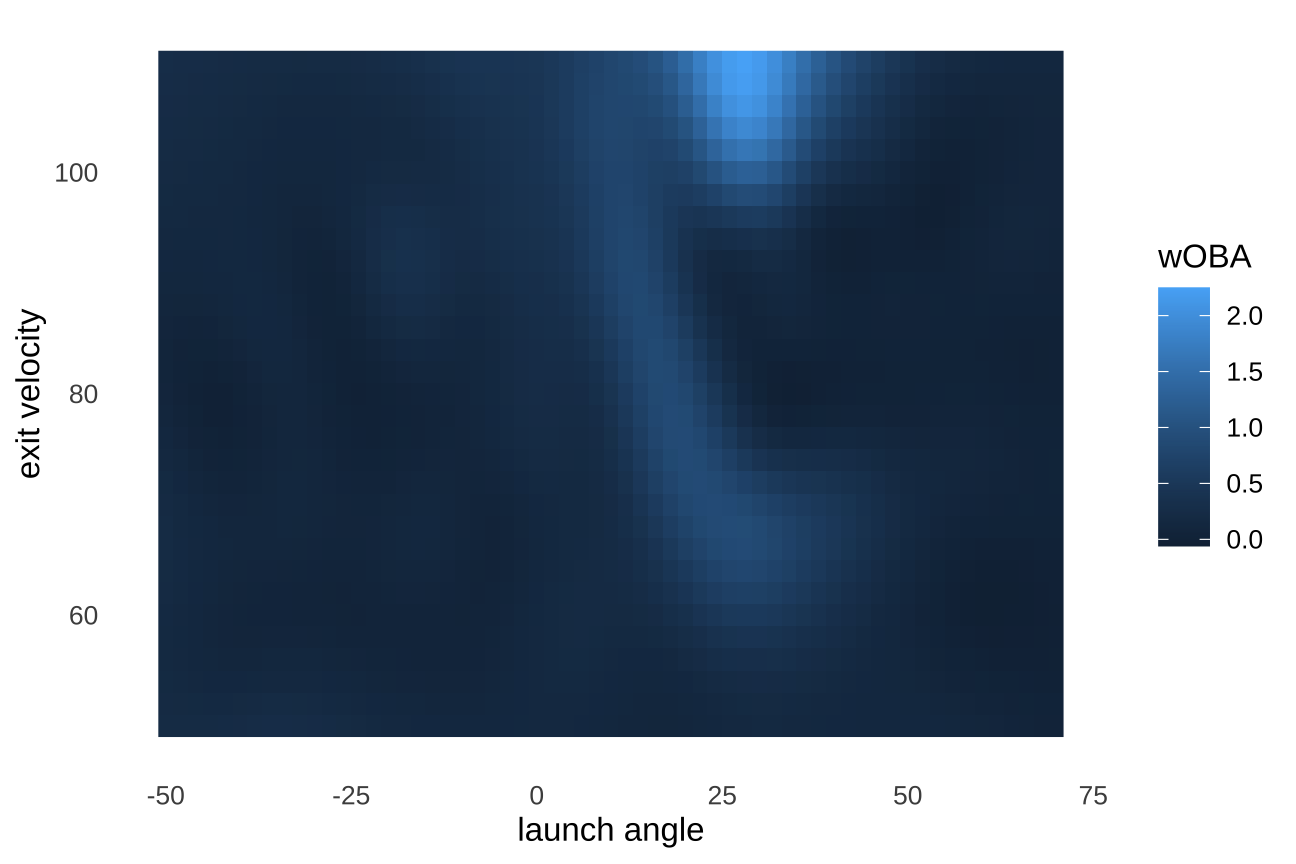
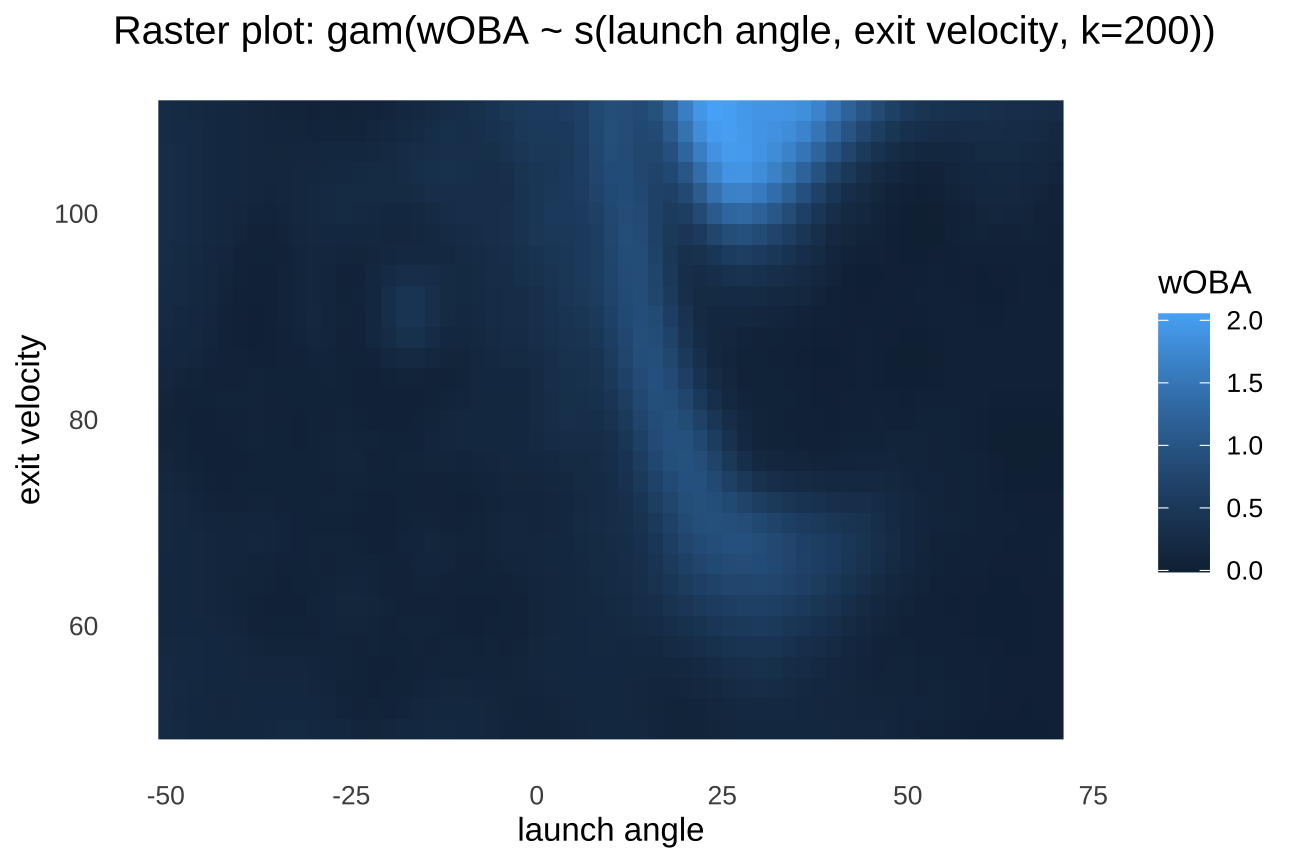
committing eda presentation (everything but model evaluation)

diff --git a/Final EDA presentation/final_eda_presentation.html b/Final EDA presentation/final_eda_presentation.html
@@ -37,8 +37,6 @@ class: center, middle, inverse, title-slide
 .pull-right[
 
 &lt;img src="final_eda_presentation_files/figure-html/unnamed-chunk-3-1.png" width="504" /&gt;
-
-
 ]
 
 ---
@@ -161,20 +159,113 @@ class: center, middle, inverse, title-slide
 
 ]
 .pull-right[
-**Raster plot from wOBA as a function of s(launch angle) + s(exit velocity)**
+**Our model's output**
 &lt;img src="final_eda_presentation_files/figure-html/unnamed-chunk-15-1.png" width="432" /&gt;
 ]
 ---
-### With an interaction in our model, we much better true relationships, such as the increased wOBA from extra base hits and the band of singles
+### With an interaction in our model, we much better see the true relationships, such as the increased wOBA from extra base hits and the band of singles
 
 .pull-left[
 **Actual relationship**
 &lt;img src="final_eda_presentation_files/figure-html/unnamed-chunk-16-1.png" width="432" /&gt;
 ]
 .pull-right[
-**Raster plot from wOBA as a function of s(launch angle, exit velocity, k=100)**
+**Our model's output** 
 &lt;img src="final_eda_presentation_files/figure-html/unnamed-chunk-17-1.png" width="432" /&gt;
 ]
+---
+### Next, we created a function that uses player data and our model to manually adjust an individual player's launch angle to best maximize their wOBA. 
+
+.pull-left[
+##### Let's test this out for Jason Heyward.
+**Our original thoughts...**
+- As a reminder, we recommended Heyward increase his launch angle to about 10-15 degrees. 
+&lt;img src="final_eda_presentation_files/figure-html/unnamed-chunk-18-1.png" width="360" style="display: block; margin: auto;" /&gt;
+]
+
+.pull-right[
+**Our model's output**
+&lt;table&gt;
+ &lt;thead&gt;
+  &lt;tr&gt;
+   &lt;th style="text-align:right;"&gt; true wOBA &lt;/th&gt;
+   &lt;th style="text-align:right;"&gt; predicted wOBA &lt;/th&gt;
+   &lt;th style="text-align:right;"&gt; true LA &lt;/th&gt;
+   &lt;th style="text-align:right;"&gt; recommended LA &lt;/th&gt;
+   &lt;th style="text-align:right;"&gt; degrees change &lt;/th&gt;
+  &lt;/tr&gt;
+ &lt;/thead&gt;
+&lt;tbody&gt;
+  &lt;tr&gt;
+   &lt;td style="text-align:right;"&gt; 0.377 &lt;/td&gt;
+   &lt;td style="text-align:right;"&gt; 0.442 &lt;/td&gt;
+   &lt;td style="text-align:right;"&gt; 11 &lt;/td&gt;
+   &lt;td style="text-align:right;"&gt; 26 &lt;/td&gt;
+   &lt;td style="text-align:right;"&gt; 15 &lt;/td&gt;
+  &lt;/tr&gt;
+&lt;/tbody&gt;
+&lt;/table&gt;
+
+- Heyward consistently can reach the exit velocities of a power hitter! **He should increase his launch angle 16 degrees to 27 degrees**. 
+  - With the potential for more home runs and doubles, making this change is expected to raise Heyward's wOBA *for balls in play* **from 0.377 to around 0.442**. 
+]
+---
+
+### What does our model recommend for Mike Trout?
+.pull-left[
+**Our original thoughts...**
+- Based on **Mike Trout's** density plot, we didn't recommend any changes to his swing...he is a 3x MVP after all! 
+&lt;img src="final_eda_presentation_files/figure-html/unnamed-chunk-20-1.png" width="432" style="display: block; margin: auto;" /&gt;
+]
+.pull-right[
+**Our model's output...**
+&lt;table&gt;
+ &lt;thead&gt;
+  &lt;tr&gt;
+   &lt;th style="text-align:right;"&gt; true wOBA &lt;/th&gt;
+   &lt;th style="text-align:right;"&gt; predicted wOBA &lt;/th&gt;
+   &lt;th style="text-align:right;"&gt; true LA &lt;/th&gt;
+   &lt;th style="text-align:right;"&gt; recommended LA &lt;/th&gt;
+   &lt;th style="text-align:right;"&gt; degrees change &lt;/th&gt;
+  &lt;/tr&gt;
+ &lt;/thead&gt;
+&lt;tbody&gt;
+  &lt;tr&gt;
+   &lt;td style="text-align:right;"&gt; 0.537 &lt;/td&gt;
+   &lt;td style="text-align:right;"&gt; 0.56 &lt;/td&gt;
+   &lt;td style="text-align:right;"&gt; 22 &lt;/td&gt;
+   &lt;td style="text-align:right;"&gt; 22 &lt;/td&gt;
+   &lt;td style="text-align:right;"&gt; 0 &lt;/td&gt;
+  &lt;/tr&gt;
+&lt;/tbody&gt;
+&lt;/table&gt;
+
+- Our model agrees that Mike Trout should not change his launch angle. 
+  - The **true wOBA** and **predicted wOBA** differ above simply because the **predicted wOBA** is what our model predicted Trout's **ball-in-play wOBA** to be when it took in his batted ball data. 
+]
+---
+
+### Next Steps: for the short term we intend to...
+
+- Pick a final model - we recently created a **random forest model** and must pick between it and our current **GAM model**. 
+
+- Find a way to adjust a player's launch angle but still keep their exit velocity distribution intact. 
+
+- Decide how much change in wOBA is worth modifying a player's swing!
+
+![](workinprogess.png){width=40%}
+---
+
+### Next Steps: for the long term we are interested in...
+
+- Understanding and quantifying how hard it is for a player to change their launch angle 
+
+  - Baseball is a mental game - are players' mental states negatively impacted with this change?
+  
+- We only looked at in play data:
+  - Do certain launch angles or changing launch angles lead to more strikeouts? 
+
+![Source: educatedcoaches.com](baseball_quote.png){width=40%}
     </textarea>
 <style data-target="print-only">@media screen {.remark-slide-container{display:block;}.remark-slide-scaler{box-shadow:none;}}</style>
 <script src="https://remarkjs.com/downloads/remark-latest.min.js"></script>
